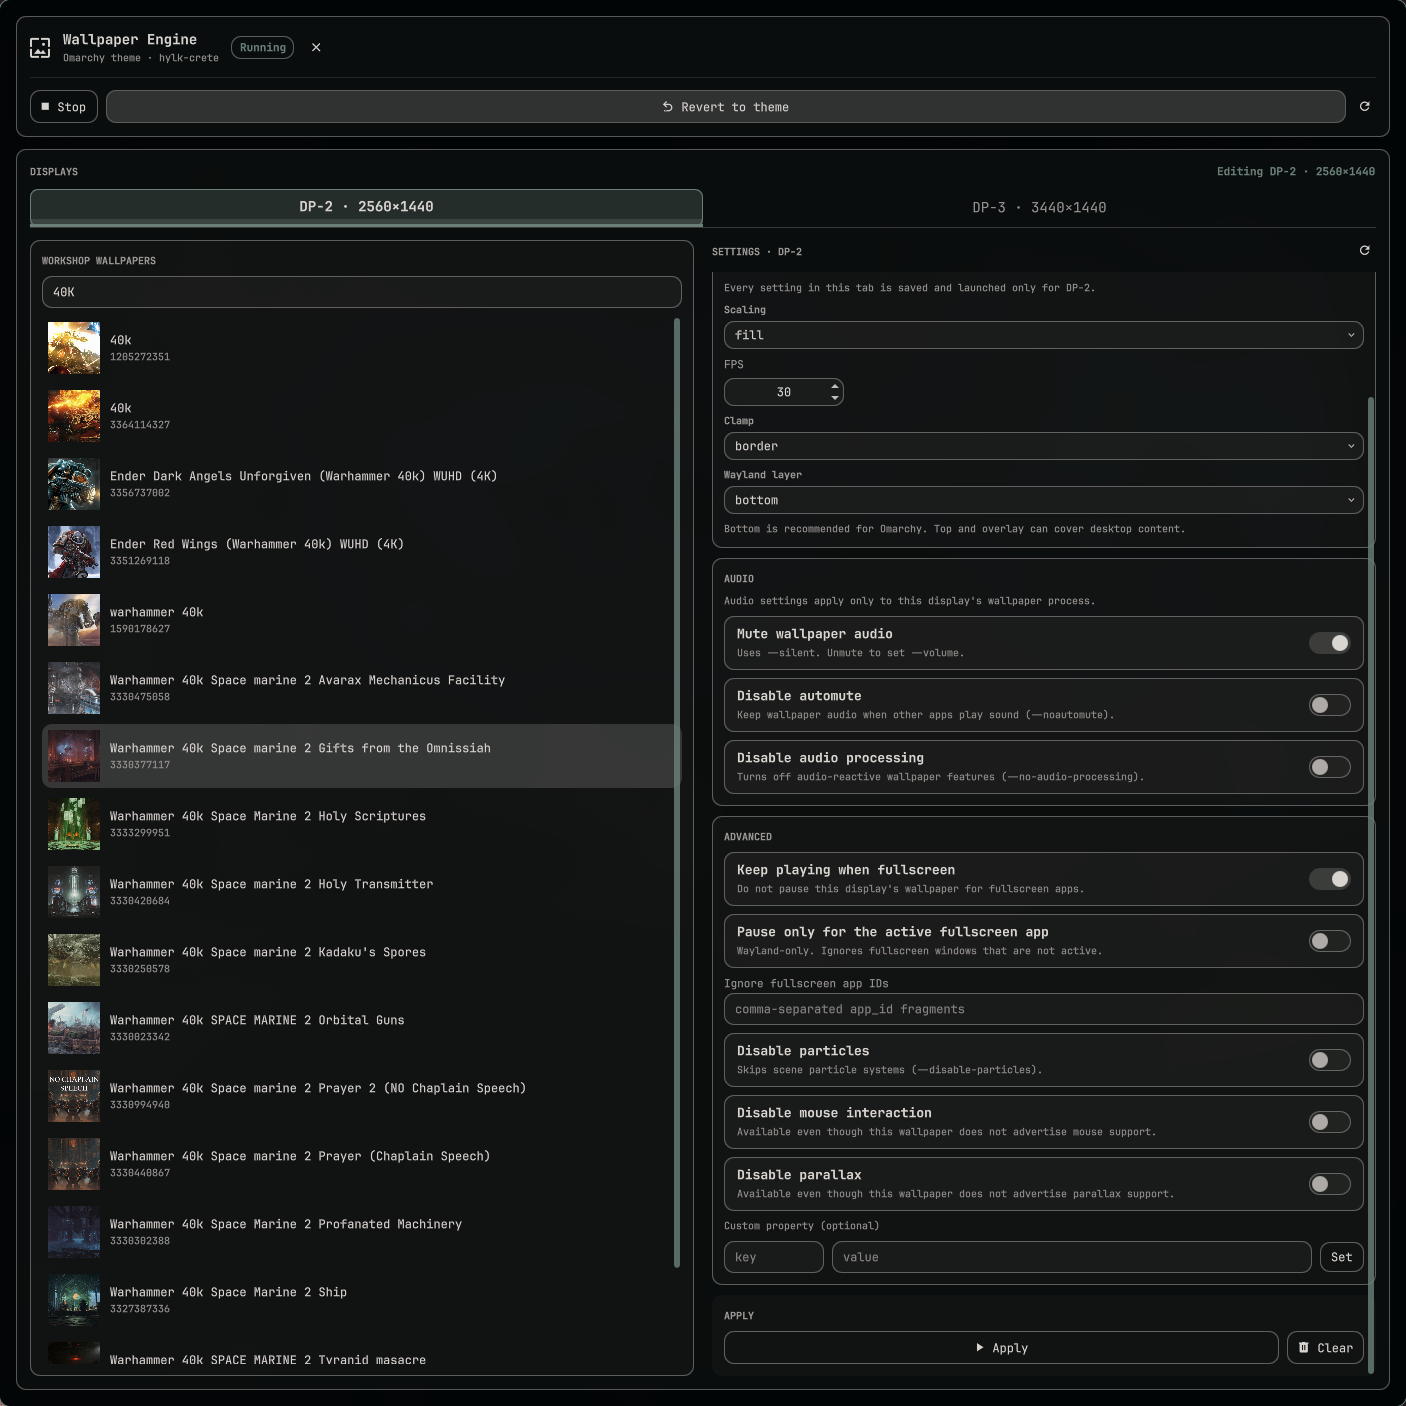
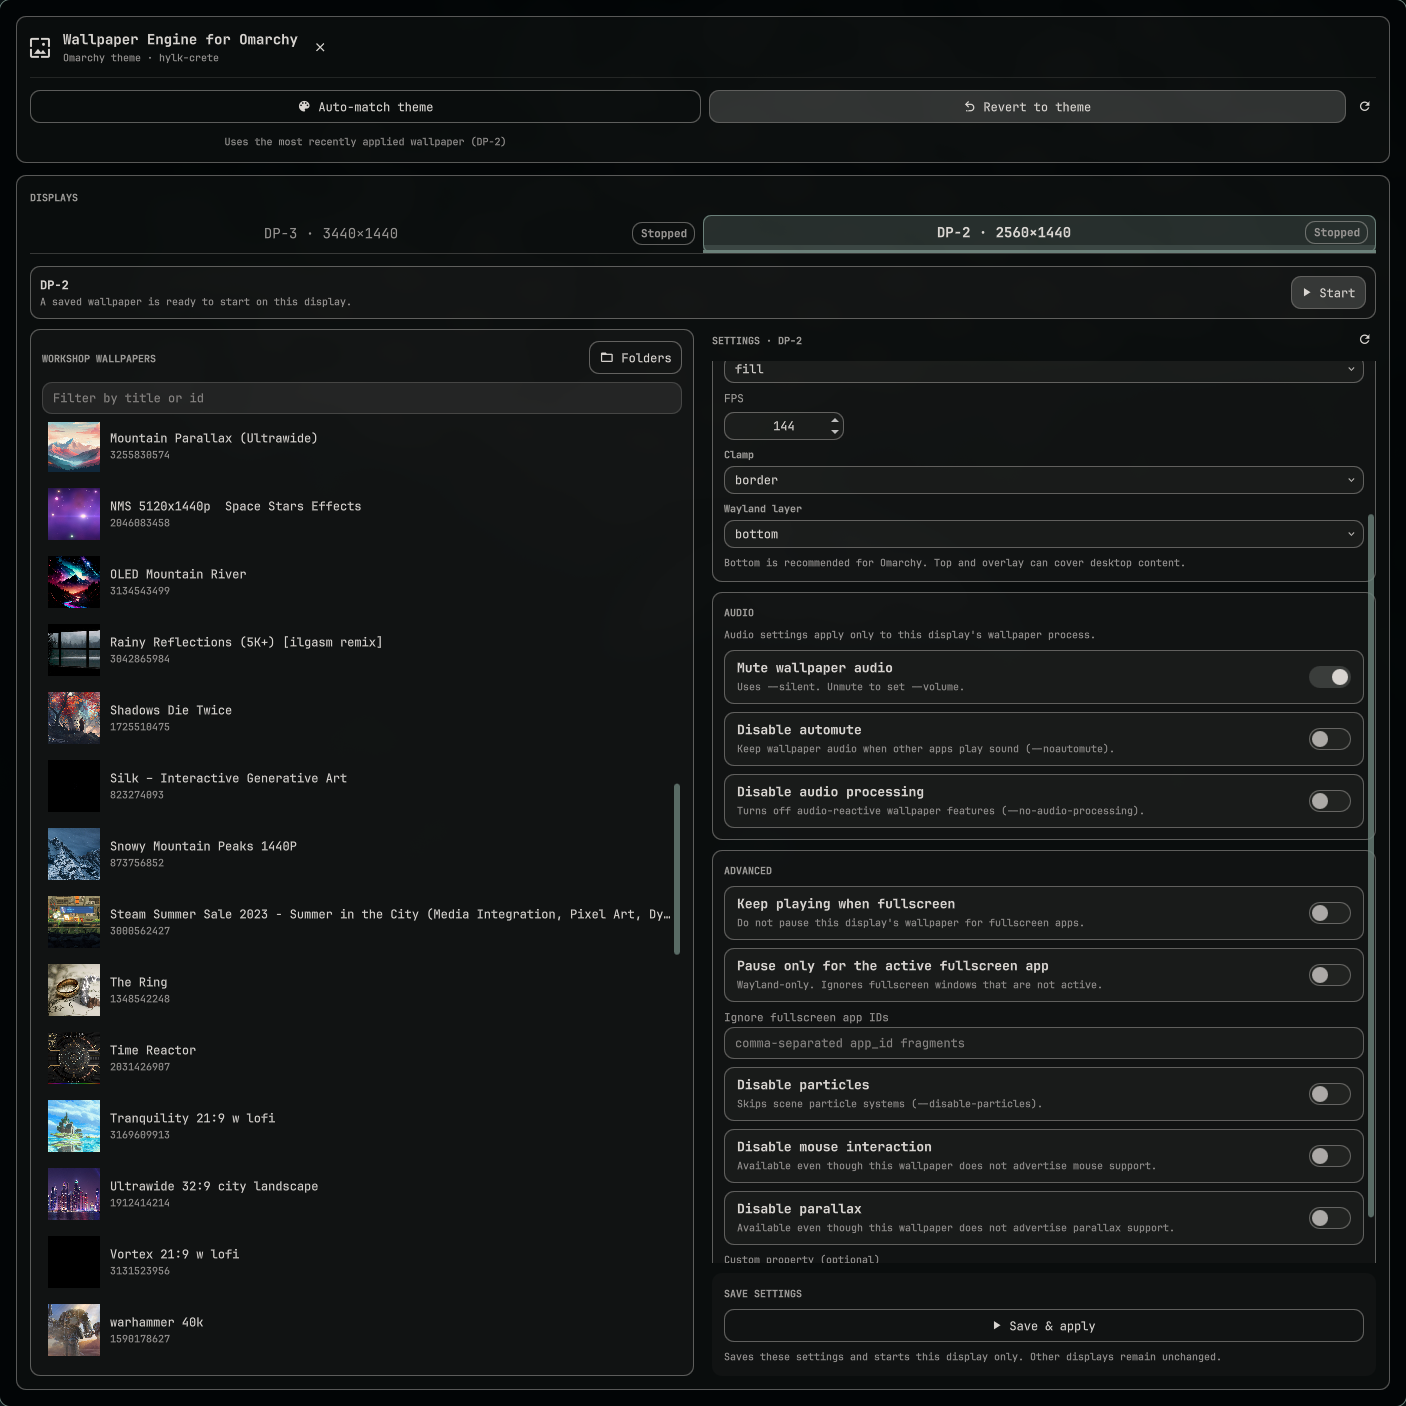
docs: update beta README preview

diff --git a/README.md b/README.md
@@ -1,7 +1,7 @@
 # Wallpaper Engine for Omarchy
 
 <p align="center">
-  <img src="preview.png?v=06ba01c" alt="Wallpaper Engine for Omarchy interface" width="100%">
+  <img src="preview.png?v=699ba2f" alt="Wallpaper Engine for Omarchy interface" width="100%">
 </p>
 
 Omarchy shell plugin that plays [Steam Wallpaper Engine](https://store.steampowered.com/app/431960/) scenes on Hyprland through [Almamu/linux-wallpaperengine](https://github.com/Almamu/linux-wallpaperengine).
